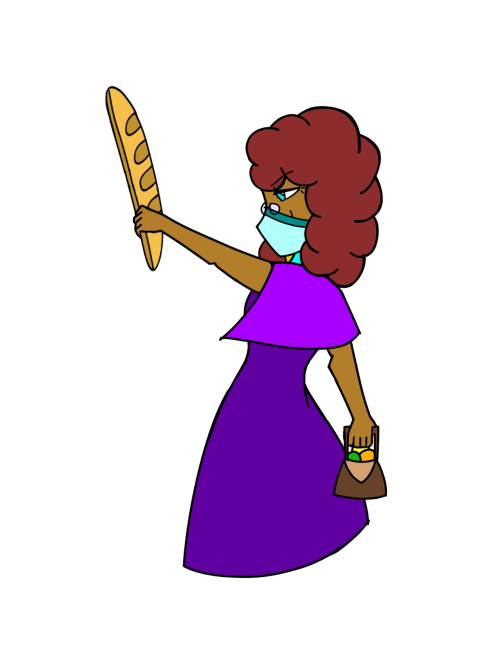
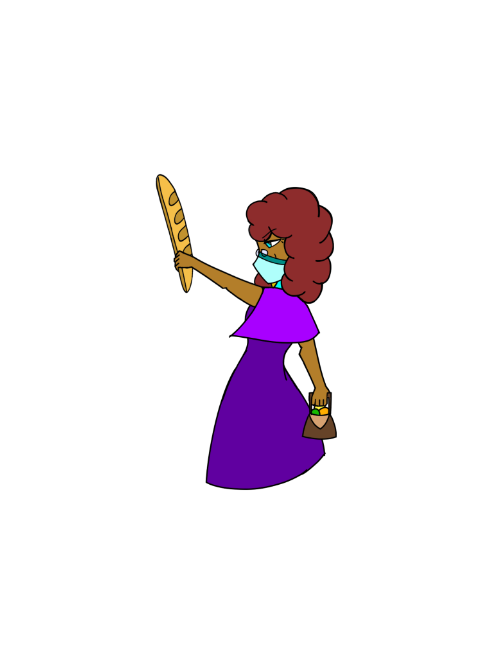
Bootstrap 425 complete

Changed region(s): [[0.21, 0.1199, 0.78, 0.8696], [0.42, 0.5997, 0.45, 0.6597]]

diff --git a/js/app.js b/js/app.js
@@ -237,7 +237,7 @@ function storyline() {
                 // BG track
                 BG.classList.add('burningBarn');    
 
-                narrator.innerText = 'The merchant went away hanging his head, and you couldn\'t help but feel a sting of pity. However, you continue with your day. As night comes along, you get ready for bed and patiently wait to start your next day. END OF DAY O-, hold up. You smell that? Is...is that...burnt wool? [Cattle -50] [END OF DAY ONE]';
+                narrator.innerText = 'The merchant went away hanging his head, and a sting of pity fills your heart. However, you continue with your day. As night approaches, you get ready for bed and wait for the next day. END OF DAY O-, hold up. You smell that? Is...is that...burnt wool? [Cattle -50] [END OF DAY ONE]';
                 cattle -= 50; //merchat "takes out" cattle           
 
             }else if (cattle <= 10) { //doesn't take anything if hero is cattle-broke
@@ -280,7 +280,7 @@ function storyline() {
         characterBox.classList.add('character');
         characterBox.classList.add('farmer');
 
-        narrator.innerText = 'Day 2: The second day is always filled with promise, (unless you had a really bad roll or got robbed or...nevermind). As you get ready to head off into town, a farmer comes by very distraught. He says a merchant-looking person came by and burned all their cattle. The suspect sounded familar, (but you didn\'t have any problems with them right?) He asks if you have any cattle to spare. At least 10 will do. Will you help?';
+        narrator.innerText = 'Day 2: The second day is always filled with promise, (unless you started on the wrong foot). As you get ready to head off into town, you spot a sullen farmer. He says a person came by and burned all their cattle. The suspect\'s description sounded like the passing merchant, but you shrug it off nonchalantly. He asks if you have any cattle to spare. At least 10 will do. Will you help?';
 
         choiceA.innerText = 'Here, Glad to help';
         choiceB.innerText = 'There\'s a market nearby. Go buy more.';
@@ -319,7 +319,7 @@ function storyline() {
                 //Characters
                 characterBox.classList.add('hero_happy');  
 
-                narrator.innerText = 'Out of the kindness of your heart,you help the farmer. In return for your kindness, he hands you 50 coins! You either feel good about this act of kindness or you\'re salivating over those coins. [Coins +50. Cattle: -10] [END OF DAY TWO]';
+                narrator.innerText = 'Out of the kindness of your heart, you help the farmer. In return for your kindness, he hands you 50 coins! You either feel good about this act of kindness or you\'re salivating over those coins. [Coins +50. Cattle: -10] [END OF DAY TWO]';
                 cattle -= 10;
                 coins += 50;
 
@@ -374,7 +374,7 @@ function storyline() {
         characterBox.classList.add('character');
         characterBox.classList.add('traders'); 
 
-        narrator.innerText = 'Day 3: The third day is...you know the line. You head off towards the trade market in town, hoping to sell some stuff while you\'re there. While there, you come across two traders selling unusual items. One offers a yellow potion and tells you that it grants happiness. The other tells you of a purple potion that tastes like grapes and dead fish. You don\'t want either, but they both convince you that the samples are free. You, not willing to turn down free samples, decided to pick one. Which do you choose?';
+        narrator.innerText = 'Day 3: The third day is...you know the line. You head off towards the trade market. While there, two traders approch you, selling potions. One tells you that hers grants happiness. The other tells you that hers tastes like grapes and dead fish. You don\'t want either, but since they tell you that they are free samples, you decide to pick one. Which do you choose?';
 
         choiceA.innerText = 'Yellow! Need a bit of that for this story...';
         choiceB.innerText = 'Purple! Why? ...no seriously, why?';
@@ -494,7 +494,7 @@ function storyline() {
             //Characters
             characterBox.classList.add('granny_angry');
 
-            narrator.innerText = 'The knocking persists and you start to grow more and more fightened. Then, the door breaks off the hinges, and an old lady steps in with a mask on. The look on her face was pure rage, and she lunges at you with a baguette, slapping you continuously with it. As you slowly lose consciousness, you think to yourself: "Grandma?" before blacking out. ["Beaten by Granny\'s Baguette" END (6)]';
+            narrator.innerText = 'The knocking persists and you start panicking. Suddenly, the door breaks off the hinges, and a masked old lady steps in. Pure rage was on her face, and she lunges at you with a baguette, continuously slapping you with it! As you lose consciousness, you think to yourself: "Grandma?" before blacking out. ["Beaten by Granny\'s Baguette" END (6)]';
 
             story.innerText = 'Narrator speaking: Gonna open that door now, huh?';
             

diff --git a/css/style.css b/css/style.css
@@ -146,7 +146,6 @@ ul {
 
 li {
     color: rgb(255, 214, 0);
-    list-style-type: none;
 }
 
 .hero_stats {
@@ -173,9 +172,6 @@ li {
 
 
 /* For buttons */ 
-button {
-    color: rgb(1, 51, 46);
-}
 
 .storyBtn {
     position: absolute;
@@ -204,6 +200,10 @@ button {
     margin-left: 52%;
 }
 
+button {
+    color: black;
+}
+
 /* Backgrounds: */
 /*George Hiles*/
 /* Ashley Trethowan */
@@ -217,3 +217,97 @@ button {
 /* Samuel Penn */
 /* Joshua Ness */
 /* Aleksandar Ristov */
+
+/* 
+sm 768
+md 992
+lg 1280 */
+
+
+@media (min-width: 425px) {
+    
+    .story_plot {
+        margin-top: 100%;
+        height: 176px;
+        width: 108%;
+    }
+
+    .character {
+        position: absolute;
+        margin-top: -109%;
+        margin-left: -10%;
+        height: 453px;
+        width: 333px;
+    }
+
+    .merchant {
+        margin-top: -103%;
+        height: 428px;    
+    }
+
+    .farmer {
+        height: 454px;
+        width: 343px;
+    }
+
+    .traders {
+        margin-top: -109%;
+        margin-left: -11%;
+        height: 455px;
+        width: 440px;
+    }
+
+    .granny_angry {
+        height: 454px;
+        width: 340px;
+    }
+
+    .hero_stats {
+        margin-top: 0%;
+        height: 58px;
+        width: 427px;
+    }
+
+    .hero_text {
+        margin: 8px 12px 0px;
+        font-size: 20px;    
+    }
+
+    ul {
+        display: inline;
+    }
+
+    li {
+        display: inline;
+    }
+
+    .narration {
+        margin-top: 5px;
+        margin-left: 0px;
+        font-size: 12px;
+    }
+
+    /* Buttons */
+
+    .storyBtn {
+        margin-top: 25%;
+        margin-left: 8%;
+        height: 45px;
+        width: 80%;
+        font-size: 15px;
+    }
+
+    .choiceBtn {
+        margin-top: 25%;
+        height: 45px;
+        width: 40%;
+        font-size: 11px;
+    }
+
+    .choiceB {
+        margin-left: 50%;
+    }
+
+
+
+}
